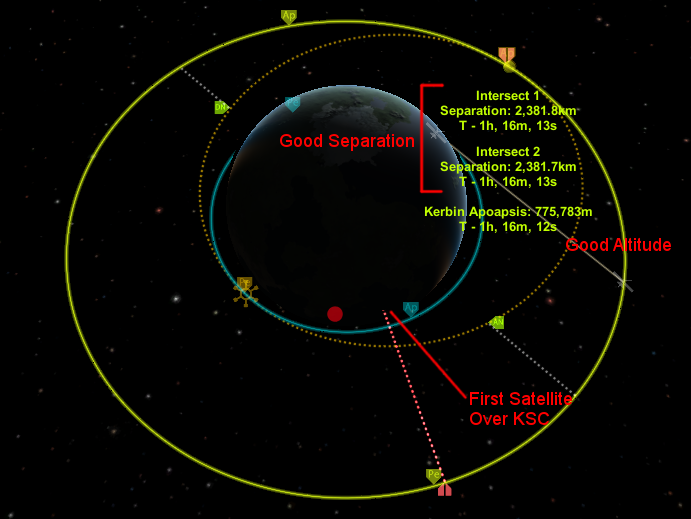
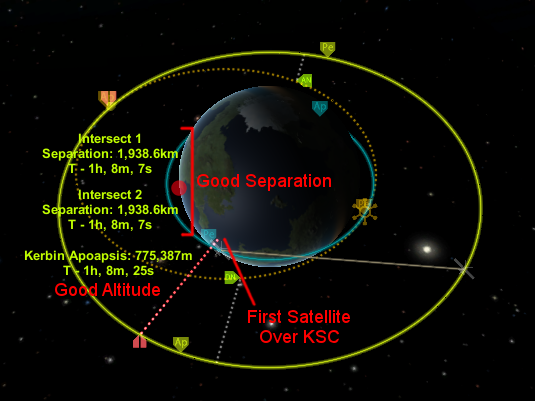
Upgraded omni network tutorial from 3 satellites to 4 satellites.
Partially addresses Starstrider42/RemoteTech#4.

diff --git a/stylesheets/tutorials.css b/stylesheets/tutorials.css
@@ -19,7 +19,7 @@ img, :not(p)+h3:before {
     float: left;
     clear: left;
     margin: 10px;
-    margin-left: 100px;
+    margin-left: 70px;
 }
 
 h3 {

diff --git a/tutorials/c16network.md b/tutorials/c16network.md
@@ -10,9 +10,11 @@ navbar: false
 
 {% include toc.html %}
 
-This tutorial covers how to create a three-satellite network using no antenna more powerful than the [Communotron 16](../../guide/parts/#communotron-16). Players who have access to more powerful antennas can feel free to include them in their satellite design, while leaving the Communotron 16 as the backbone of the constellation.
+This tutorial covers how to create a four-satellite network* using no antenna more powerful than the [Communotron 16](../../guide/parts/#communotron-16). Players who have access to more powerful antennas can feel free to include them in their satellite design, while leaving the Communotron 16 as the backbone of the constellation.
 
-The requirement that the satellites be connected by Communotron 16's forces the altitude of the satellites to be between 600&nbsp;km (below which the satellites are below each others' horizons) and 840&nbsp;km (above which the satellites are out of range of each other). We'll go with an altitude of 776.6&nbsp;km, which has a convenient orbital period of 1.5&nbsp;hours.
+*While it's possible to make a 3-satellite network with a few changes to these instructions, the orbit and synchronization requirements are too strict for it to be worth the trouble.
+
+The requirement that the satellites be connected by Communotron 16's forces the altitude of the satellites to be between 250&nbsp;km (below which the satellites are below each others' horizons) and 1160&nbsp;km (above which the satellites are out of range of each other). The closer you are to the middle of this range, the broader your tolerances on aligning your satellites. We'll go with an altitude of 776.6&nbsp;km, which in addition to being far from either end of the altitude range has a convenient orbital period of 1.5&nbsp;hours.
 
 <!-- The tutorial gives two methods for creating an omni network. [Separate launches](#method-1-separate-launches) have an easier rocket design and less specific orbit requirements, but are more tedious. A [single launch](#method-2-single-launcher) is faster, but requires skill in both rocket design and orbital maneuvers.-->
 
@@ -40,24 +42,22 @@ Begin by getting your satellite into an orbit with an apoapsis of 777&nbsp;km, t
 
 Circularize your orbit as usual. Your goal is to set your period as close to 1 hour 30 minutes as you can. As long as they're reasonably low, your eccentricity and inclination don't matter. The period, however, *does* matter: write down the exact value for later use.
 
-###Second Satellite
+###Remaining Satellites
 {: .spacer}
 
-![Image showing how the map view should look before the second satellite's transfer burn](single_2_align.png "A good transfer burn for the second of three satellites: apoapsis at KEO altitude, and 2384 km from the first satellite"){: .right}
+![Image showing how the map view should look before the second satellite's transfer burn](single_2_align.png "A good transfer burn for the second of three satellites: apoapsis at KEO altitude, and 1947 km from the first satellite"){: .right}
 
-The second satellite is the hardest of the three, because you need to synchronize it both with your first satellite and with Kerbin's rotation. Launch the satellite into low Kerbin orbit. Use the map view to select the first satellite as the target. Set a maneuver node that reaches an apoapsis of 777&nbsp;km; a rendezvous marker should appear, telling you how far your satellite will be from the target at apoapsis. Adjust the maneuver node's position until this distance is close to 2384&nbsp;km. It doesn't have to be exact, but it needs to be closer than 50&nbsp;km to the best value.
+The second and third satellites are the hardest, because you need to synchronize them both with your previous satellite(s) and with Kerbin's rotation. Launch each satellite into low Kerbin orbit. Use the map view to select the previous satellite in the network as the target. Set a maneuver node that reaches an apoapsis of 777&nbsp;km; a rendezvous marker should appear, telling you how far your satellite will be from the target at apoapsis. Adjust the maneuver node's position until this distance is close to 1947&nbsp;km. It doesn't have to be exact.
 
-You also need to make sure that either the marker representing your first satellite or the marker representing your second satellite will be over KSC, after allowing for Kerbin to rotate by roughly one sixth of a rotation -- otherwise, you will be out of contact during the circularization burn. If necessary, delay the maneuver node by one orbit by right-clicking on it, clicking on the blue button to the lower right, then right-clicking again. After advancing by one orbit, you will have to fine-tune the separation between the satellites again.
+You also need to make sure that either the marker representing your targeted satellite or the marker representing your current satellite will be over KSC, after allowing for Kerbin to rotate by roughly one sixth of a rotation -- otherwise, you may be out of contact during the circularization burn. If necessary, delay the maneuver node by one orbit by right-clicking on it, clicking on the blue button to the lower right, then right-clicking again. After advancing by one orbit, you will have to fine-tune the separation between the satellites again.
 
-If the maneuver node happens when you are out of sight of KSC, you will have to use the flight computer to handle the burn. Open the flight computer by clicking on the green calculator icon below the mission clock (if it's not green, you will have to wait until the next time you have a connection; another advantage of delaying the maneuver by a full orbit). Click "NODE" at the top of the window, then "EXEC" at the bottom. This will tell the computer to prepare for and execute the burn when the time comes. Once the satellite comes back over the horizon after the burn, you'll be able to control it directly again.
+If the maneuver node happens when you are out of contact with KSC, you will have to use the flight computer to handle the burn. Open the flight computer by clicking on the green calculator icon below the mission clock (if it's not green, you will have to wait until the next time you have a connection; another advantage of delaying the maneuver by a full orbit). Click "NODE" at the top of the window, then "EXEC" at the bottom. This will tell the computer to prepare for and execute the burn when the time comes. Once the satellite comes back over the horizon after the burn, you'll be able to control it directly again.
 
-![A finished 3-satellite constellation](single_final.png){: .left}
+![A finished 4-satellite constellation](single_final.png){: .left}
 
 Once your satellite reaches apoapsis, circularize your orbit. This time, your goal is to get **exactly** the same period as your first satellite (to within [high tolerances](#appendix-orbit-tolerances)). RCS can help with this, as can right-clicking on your engine and setting the throttle limiter to a very low value.
 
-###Third Satellite
-
-The third satellite is similar to the second, except you don't have to worry about synchronizing with KSC's rotation. If you set up the maneuver to reach apoapsis 2380&nbsp;km from either of the two satellites (on the side that does not yet have a satellite, of course), then you are guaranteed to have a working connection when you make the circularization burn.
+The fourth satellite is similar to the second and third, except you don't have to worry about synchronizing with KSC's rotation. If you set up the maneuver to reach apoapsis 1947&nbsp;km from the previous satellite, then you are guaranteed to have a working connection when you make the circularization burn.
 
 <div></div>{: .spacer}
 
@@ -65,11 +65,11 @@ The third satellite is similar to the second, except you don't have to worry abo
 
 The precision with which you need to match the periods of your KEO satellites depends on how much drift between satellites you're willing to tolerate:
 
-Period Error | Drift Rate             | Time to drift out of contact (6&deg;)
+Period Error | Drift Rate             | Time to drift out of contact (38&deg;)
 -------------|:----------------------:|:-------------------------:
-0.01 seconds | 0.00067&deg; per orbit | 1 Earth year 200 days (5 Kerbin years)
-0.1  seconds | 0.0067&deg; per orbit  | 60 Earth days (200 Kerbin days)
-1    seconds | 0.067&deg; per orbit   | 6 Earth days (20 Kerbin days)
+0.01 seconds | 0.00067&deg; per orbit | 10 Earth years (33 Kerbin years)
+0.1  seconds | 0.0067&deg; per orbit  | 360 Earth days (3 Kerbin years)
+1    seconds | 0.067&deg; per orbit   | 36 Earth days (140 Kerbin days)
 {: .data}
 
 #Optional Steps

diff --git a/modders/settings.md b/modders/settings.md
@@ -37,7 +37,7 @@ The settings are as follows:
 : This setting controls how the game determines whether two antennas are in range of each other. The options are:
 
     `Standard`
-    : The game works as described in the [Players' Guide](../../guide/overview/#range): a link is only possible if the distance between two ships is less than the *smaller* of the two antennas' ranges.
+    : The game works as described in the [Player's Guide](../../guide/overview/#range): a link is only possible if the distance between two ships is less than the *smaller* of the two antennas' ranges.
 
     `Root`
     : The two antennas can communicate as long as they are within ![Min(r1, r2) + Sqrt(r1 r2)](rootmodel.png) of each other, where r<sub>1</sub> and r<sub>2</sub> are the ranges of the two antennas, up to a limit of 100 times the omni range or 1000 times the dish range, whichever is smallest. A table of effective ranges for all pairs of antennas is given in an [appendix](#appendix-root-range-model). Since this formula doubles the effective range between two identical antennas, it is recommended to use `RangeMultiplier = 0.5` with this mode to preserve part balance.
@@ -96,7 +96,7 @@ Each `STATION{}` block needs the following fields:
 : The position of the station on the planet's surface.
 
 `Height`
-: The station's altitude above sea level.
+: The station's altitude above sea level, in meters.
 
 `Body`
 : The internal ID number of the planet on which the station is located. You can find a list of ID numbers for stock Kerbal Space Program [here](https://github.com/Anatid/XML-Documentation-for-the-KSP-API/blob/master/src/FlightGlobals.cs#L72). If you are playing with Real Solar System or other planet packs, edit this value with caution.

diff --git a/tutorials/index.md b/tutorials/index.md
@@ -43,7 +43,7 @@ extra_css: tutorials
 
 ##Using the Flight Computer Effectively
 
-![](reentry/chute.png)
+![](reentry/thumbnail.png)
 
 ###[Kerbin Re-Entry](reentry/)
 
